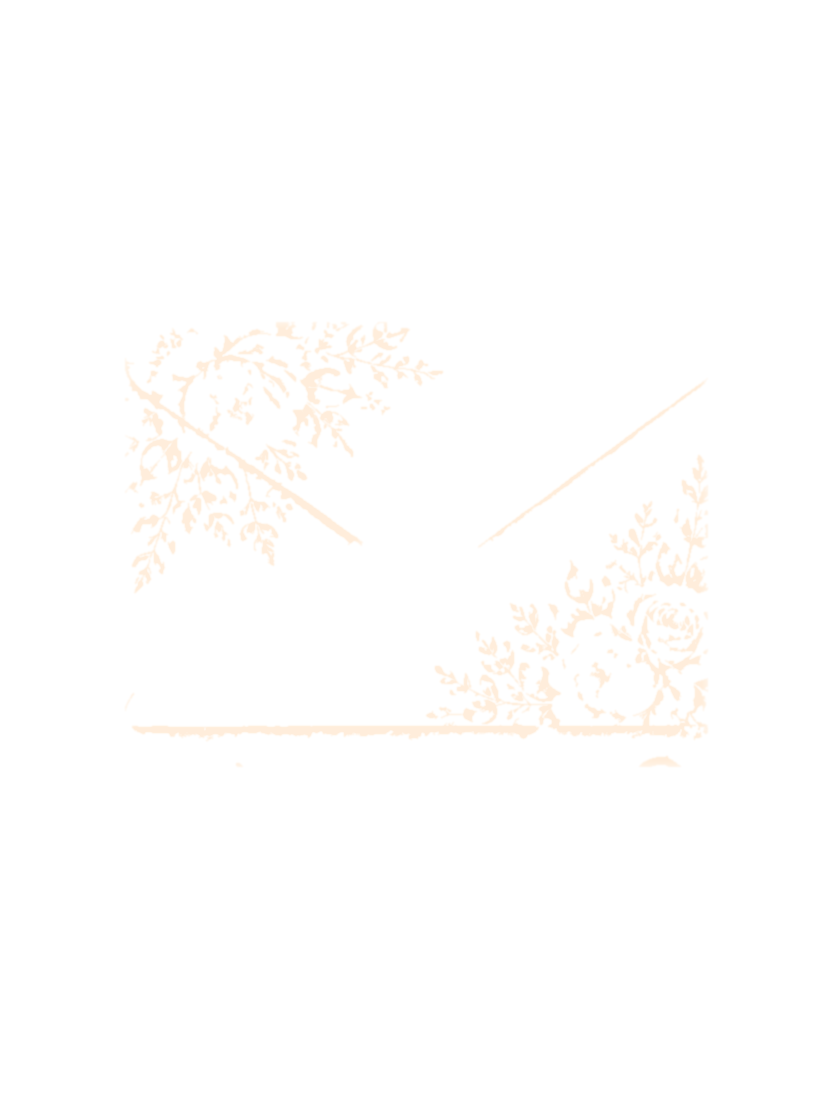
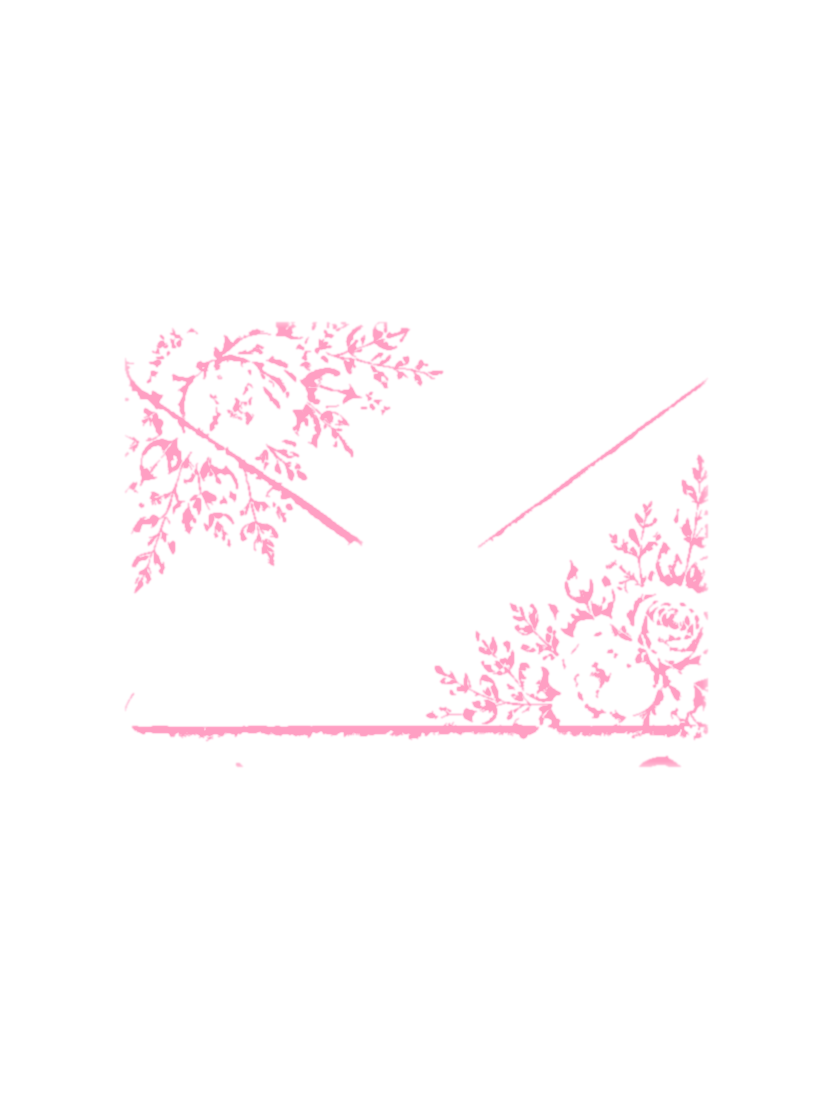
Noor Invitations : Féerie, cadre doré pour la photo du couple et lumière rose sur l'enveloppe

diff --git a/noor-invitations/demo/feerie/style.css b/noor-invitations/demo/feerie/style.css
@@ -76,7 +76,7 @@ img { display: block; max-width: 100%; height: auto; }
 @property --reach { syntax: '<percentage>'; inherits: false; initial-value: 0%; }
 .pattern-light {
   position: absolute; inset: 0;
-  background: url("img/motifs-lumiere.webp") center / 100% 100% no-repeat;
+  background: url("img/motifs-lumiere.webp?v=rose") center / 100% 100% no-repeat;
   mix-blend-mode: screen;
   pointer-events: none;
   opacity: 0;
@@ -561,4 +561,30 @@ body {
   pointer-events: none;
   --band: #f2d6de;
   background: linear-gradient(180deg, transparent 0, var(--band) 60px, var(--band) calc(100% - 60px), transparent 100%);
+}
+
+/* ---------- Féerie : photo de fin dans un cadre doré façon miroir ancien ---------- */
+.invitation .finale-photo.finale-photo-feerie {
+  position: relative;
+  width: min(80%, 310px);
+  margin: 40px auto 40px;
+  padding: 13px;
+  border: 0;
+  border-radius: 999px 999px 24px 24px;
+  background: linear-gradient(145deg, #f6e2b3 0%, #c9a063 22%, #fbecc4 45%, #b88942 68%, #f3d9a0 85%, #a87a3c 100%);
+  box-shadow: 0 0 0 1px #9c7034, 0 26px 50px rgba(120, 70, 40, 0.28);
+  overflow: visible;
+}
+.finale-photo-feerie .photo-arch {
+  display: block;
+  border-radius: 999px 999px 13px 13px;
+  overflow: hidden;
+  aspect-ratio: 3 / 4.6;
+  box-shadow: 0 0 0 2px #fff6e3, 0 0 0 3px #a87a3c;
+}
+.finale-photo-feerie .photo-arch img { width: 100%; height: 100%; object-fit: cover; object-position: 50% 30%; border-radius: 0; }
+/* Petite étoile dorée au sommet de l'arche */
+.finale-photo-feerie::after {
+  content: "✦"; position: absolute; top: -18px; left: 50%; transform: translateX(-50%);
+  font-size: 22px; line-height: 1; color: #c9a063; text-shadow: 0 0 8px rgba(246, 226, 179, 0.9);
 }

diff --git a/noor-invitations/demo/feerie/index.html b/noor-invitations/demo/feerie/index.html
@@ -15,7 +15,7 @@
   <link rel="preconnect" href="https://fonts.gstatic.com" crossorigin>
   <link href="https://fonts.googleapis.com/css2?family=Pinyon+Script&family=Cormorant+Garamond:ital,wght@0,400;0,500;0,600;1,400;1,500&family=Marcellus&display=swap" rel="stylesheet">
   <link rel="preload" as="image" href="img/enveloppe-fermee.jpg">
-  <link rel="stylesheet" href="style.css?v=20261011">
+  <link rel="stylesheet" href="style.css?v=20261016">
 </head>
 <body class="is-locked" data-model="feerie">
 
@@ -159,8 +159,11 @@
 
     <!-- ===== FIN ===== -->
     <footer class="finale">
-      <figure class="finale-photo reveal">
-        <img src="img/photo-couple.webp" alt="Lucie et Maxime" loading="lazy" width="736" height="1307">
+      <figure class="finale-photo finale-photo-feerie reveal">
+        <!-- Cadre doré façon miroir ancien : photo en arche, liseré ivoire et étoile au sommet -->
+        <span class="photo-arch">
+          <img src="img/photo-couple.webp" alt="Lucie et Maxime" loading="lazy" width="736" height="1307">
+        </span>
       </figure>
       <p class="script-title">Nous avons hâte de vous voir</p>
       <p class="signature">Lucie &amp; Maxime</p>
